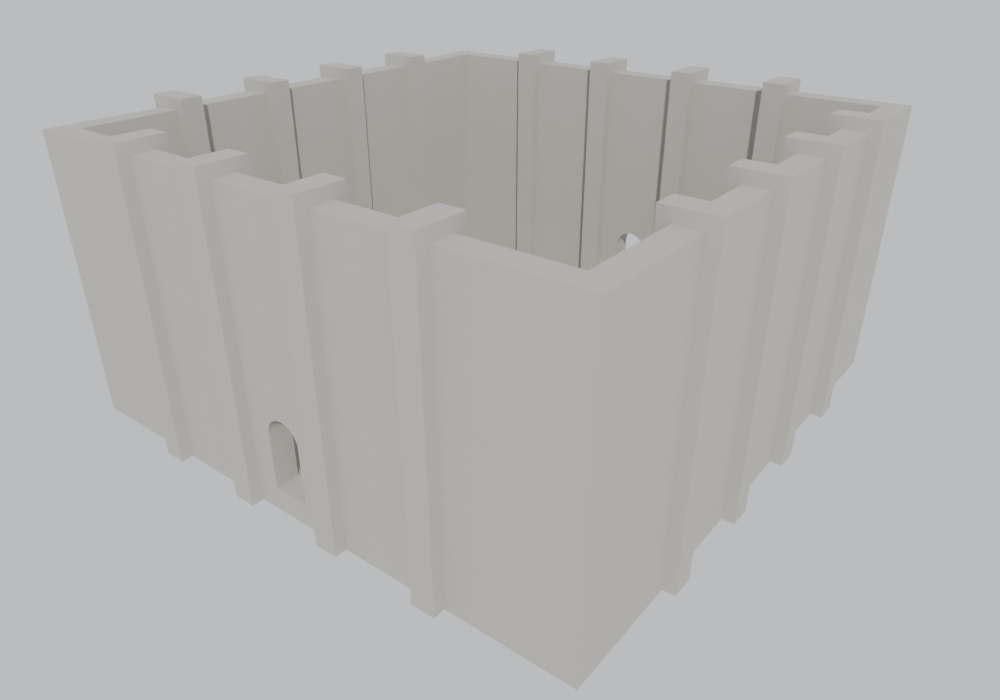
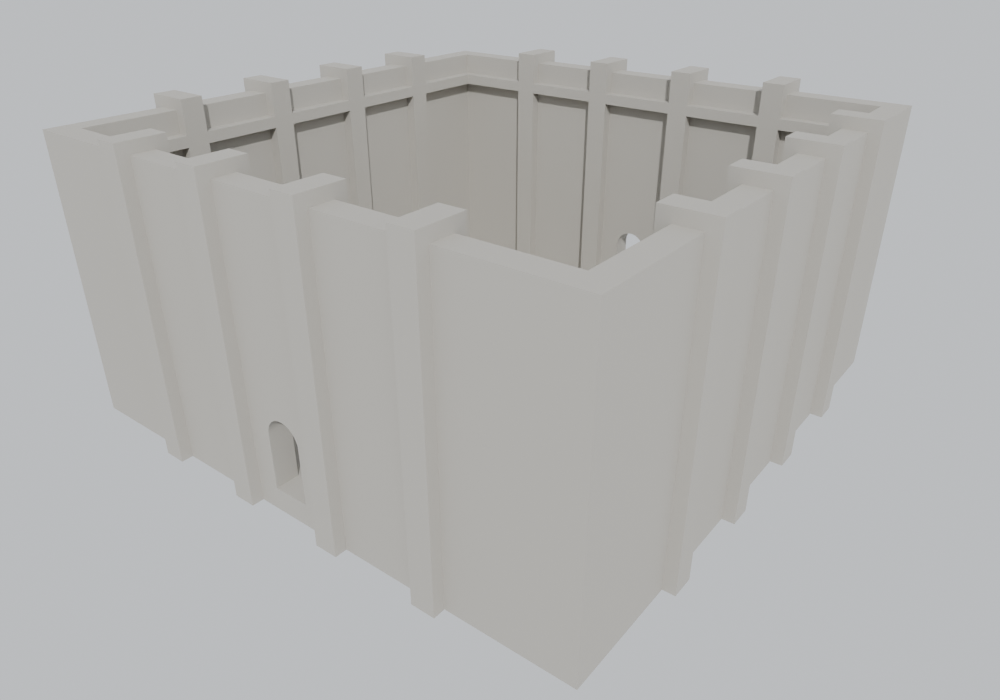
Add interior ledge around the walls, 110-115 m, 5 m deep, split between columns (20 separate objects)
Claude-Session: https://claude.ai/code/session_01SWXPy6War9Jf9BhkNrgaL1

Changed region(s): [[0.186, 0.12, 0.806, 0.21], [0.155, 0.21, 0.186, 0.24]]

diff --git a/Tools/models/grande_salle_blender.py b/Tools/models/grande_salle_blender.py
@@ -106,6 +106,19 @@ for i in range(1, NCOL + 1):
         kp += 1; c = bpy.data.objects.new("Pont_%02d" % kp, me_pont); c.location = (x, y, H); c.rotation_euler.z = math.radians(rz)
         col_pont.objects.link(c)
 print("ponts :", kp, "| longueur", L, "m, épaisseur", DEP, "m")
+# corniche : bande de 5 m de saillie et 5 m d'épaisseur contre le mur intérieur, 10 m sous le haut (110 -> 115 m), tout autour
+# découpée entre les colonnes (rien n'est fusionné) ; les carrés d'angle appartiennent aux murs avant et arrière
+col_cor = bpy.data.collections.new("Corniche"); scn.collection.children.link(col_cor)
+zc1 = H - 10.0; zc0 = zc1 - DEP
+bords = [-b] + [e for i in range(1, NCOL + 1) for e in (-b + i * pas - COL / 2, -b + i * pas + COL / 2)] + [b]
+kc = 0
+for j in range(NCOL + 1):
+    u0, u1 = bords[2 * j], bords[2 * j + 1]
+    v0, v1 = max(u0, -b + DEP), min(u1, b - DEP)          # murs gauche / droite : s'arrêtent aux carrés d'angle
+    for (x0, x1, y0, y1) in ((u0, u1, -b, -b + DEP), (u0, u1, b - DEP, b), (-b, -b + DEP, v0, v1), (b - DEP, b, v0, v1)):
+        kc += 1; c = box("Corniche_%02d" % kc, x0, x1, y0, y1, zc0, zc1, origin=((x0 + x1) / 2, (y0 + y1) / 2, zc0))
+        c.data.materials.append(bpy.data.materials["Pierre"]); col_cor.objects.link(c)
+print("corniche :", kc, "morceaux | de", zc0, "à", zc1, "m")
 print("colonnes :", k, "| centres le long des murs :", [round(-b + i * pas, 2) for i in range(1, NCOL + 1)])
 print("mur entre colonne du milieu et ouverture :", round((-b + 3 * pas) - COL / 2 - OW / 2, 3), "m | ouverture :", OW, "m de large,", OH + OA, "m de haut (arrondi à partir de", OH, "m)")
 
